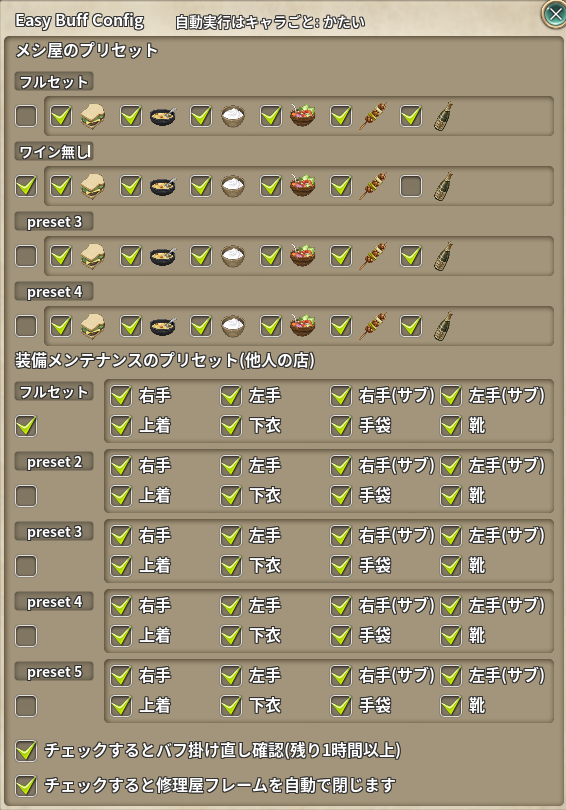
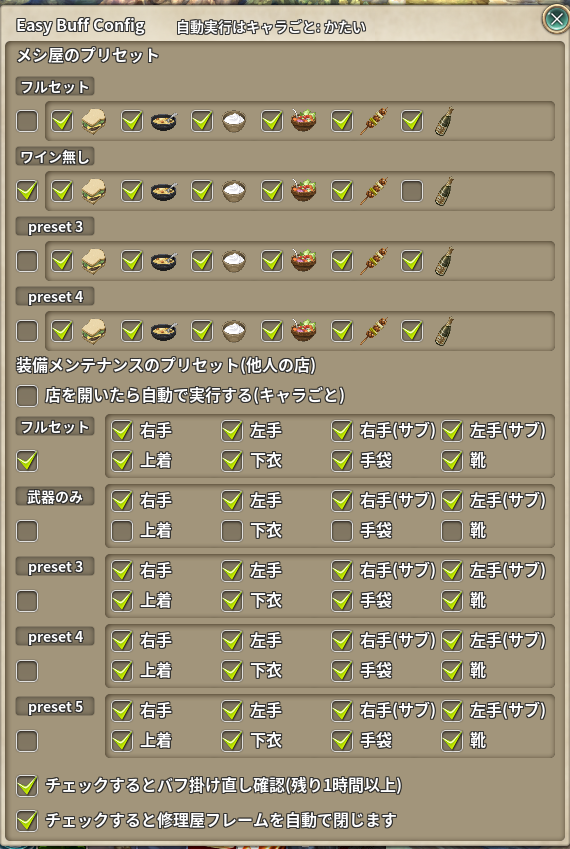
feat(easy_buff): 装備メンテナンスの窓にプリセットのボタンを並べ、店を開いたときの自動実行を切り替えられるようにする
* 他人の装備メンテナンスの窓で、装備の一覧をボタン 1 段分（36px）下げ、空いた所に
  5 つのプリセットボタンを並べる（メシ屋と同じく、設定で左端にチェックしたものが赤）。
  押すとそのプリセットの部位を選んで実行する。実行中に押し直しても二重には頼まない。
  自分の店ではボタンを隠し、一覧を元の位置へ戻す（窓は使い回されるため）。
* 設定に「店を開いたら自動で実行する(キャラごと)」を足す（char_maint_auto。既定 ON = 従来どおり）。
* test_easy_buff.lua に、自動実行 OFF / 自分の店 / 一覧を 1 回だけ下げることの検査を足す。
* 設定画面のスクリーンショットを撮り直し、店のボタンの画像を足す。

diff --git a/nexus_addons_p/src/addons/easy_buff/README.md b/nexus_addons_p/src/addons/easy_buff/README.md
@@ -57,16 +57,25 @@
 
 ## 装備メンテナンス（他人のスクワイア）
 
-**他人**の装備メンテナンスウィンドウが開いたときだけ、
+**他人**の装備メンテナンスウィンドウが開いたときだけ、窓の上（装備の一覧の上）に
+**5 つのプリセットボタン**が並びます。選択中（設定で左端にチェックしたもの）のプリセットは赤いボタンです。
+ボタンを押すと、そのプリセットの部位を選んで下の 2〜4 を行います。
+
+![他人の「装備メンテ」の窓の上部。タイトルの下、装備の一覧の上に、フルセット・武器のみ・preset 3・preset 4・preset 5 の 5 つのボタンが横一列に並び、選択中のフルセットだけが赤い](images/03-maint-buttons.png)
+
+設定の「店を開いたら自動で実行する」が ON（既定）なら、店を開いた時点で次を自動で行います。
 
 1. 設定で自動実行に選んだプリセット（**キャラごと**。既定は preset 1 = すべて）の部位にチェックを入れる
 2. 実行ボタンを押す
 3. `装備メンテナンス自動付与中 フレームを閉じればキャンセルします` と表示
 4. 5.5 秒後にウィンドウを閉じる
 
-を自動で行います。自分のスクワイアでは何もしません。
+自分のスクワイアではボタンを出さず、何もしません。
 
-* 設定で自動実行のプリセットを**全部外したキャラ**（または選んだプリセットの部位が全部外れている）では、何も選ばず実行もしません。
+* 「店を開いたら自動で実行する」を外したキャラ、自動実行のプリセットを**全部外したキャラ**
+  （または選んだプリセットの部位が全部外れている）では、店を開いても何も選ばず実行もしません。ボタンは使えます。
+* 部位が 1 つも選ばれていないプリセットのボタンを押すと、`Easy Buff: このプリセットは部位が 1 つも選ばれていません` と表示します。
+* 実行中（窓が閉じるまでの 5.5 秒）にボタンをもう一度押しても、二重には実行しません。
 * 選んだ部位がその店で 1 つもメンテナンスできない（武器のメンテナンスの店で防具だけを選んでいる等）ときは、
   `Easy Buff: 装備メンテナンスで選ぶ部位がこの店にありません` と表示して実行しません。
 途中でウィンドウを閉じると `packet.StopTimeAction` でキャンセルされます。
@@ -75,7 +84,7 @@
 
 アドオン一覧（メニューボタン → アドオン一覧）の歯車ボタンから開きます。
 
-![Easy Buff Config の画面。タイトルの右に「自動実行はキャラごと: かたい」と今のキャラ名が出ている。上半分の「メシ屋のプリセット」には 4 つのプリセット（フルセット・ワイン無し・preset 3・preset 4）が並び、各プリセットの左端に自動実行の選択チェック（この例ではワイン無しだけ ON）、右に料理 6 種類のチェックが横並びで付く（ワイン無しはシャンパンだけ OFF）。その下の「装備メンテナンスのプリセット(他人の店)」には 5 つのプリセット（フルセット・preset 2〜5）が並び、左端に自動実行の選択チェック（この例ではフルセットだけ ON）、右に右手・左手・右手(サブ)・左手(サブ)・上着・下衣・手袋・靴の 8 個のチェックが 4 列 2 段で付く。最下部にバフ掛け直し確認と修理屋フレームの自動クローズのチェック](images/02-settings.png)
+![Easy Buff Config の画面。タイトルの右に「自動実行はキャラごと: かたい」と今のキャラ名が出ている。上半分の「メシ屋のプリセット」には 4 つのプリセット（フルセット・ワイン無し・preset 3・preset 4）が並び、各プリセットの左端に自動実行の選択チェック（この例ではワイン無しだけ ON）、右に料理 6 種類のチェックが横並びで付く（ワイン無しはシャンパンだけ OFF）。その下の「装備メンテナンスのプリセット(他人の店)」には、まず「店を開いたら自動で実行する(キャラごと)」のチェック（この例では OFF）があり、続いて 5 つのプリセット（フルセット・武器のみ・preset 3〜5）が並ぶ。左端に自動実行の選択チェック（この例ではフルセットだけ ON）、右に右手・左手・右手(サブ)・左手(サブ)・上着・下衣・手袋・靴の 8 個のチェックが 4 列 2 段で付く（武器のみは上着・下衣・手袋・靴が OFF）。最下部にバフ掛け直し確認と修理屋フレームの自動クローズのチェック](images/02-settings.png)
 
 | 項目 | 既定値 | 説明 |
 | --- | --- | --- |
@@ -84,8 +93,9 @@
 | 料理チェック（プリセットごとに 6 個） | すべて ON | そのプリセットで食べる料理 |
 | バフ掛け直し確認（残り1時間以上） | OFF | ON にすると確認ダイアログを出す |
 | 修理屋フレームを自動で閉じます | OFF | ON にすると修理後にウィンドウを閉じる |
-| 装備メンテナンスのプリセット名（5 つ） | `preset 1`〜`5` | **Enter キーで確定** |
-| 装備メンテナンスのプリセットの選択チェック | プリセット 1 | 他人の装備メンテナンスで自動実行するプリセット。全部外すと自動実行しない。**キャラごとに覚える** |
+| 店を開いたら自動で実行する | ON | 外すと他人の装備メンテナンスを開いても自動では何もしない（店のボタンは使える）。**キャラごとに覚える** |
+| 装備メンテナンスのプリセット名（5 つ） | `preset 1`〜`5` | **Enter キーで確定**。店のボタンの文字にもなる |
+| 装備メンテナンスのプリセットの選択チェック | プリセット 1 | 他人の装備メンテナンスで自動実行するプリセット（店では赤いボタン）。全部外すと自動実行しない。**キャラごとに覚える** |
 | 部位チェック（プリセットごとに 8 個） | すべて ON | そのプリセットで選ぶ部位（右手・左手・右手(サブ)・左手(サブ)・上着・下衣・手袋・靴） |
 
 ## 保存先
@@ -102,7 +112,8 @@
   "repair_check": 0,
   "maint_presets_name":  { "1": "preset 1", ... },
   "maint_presets_check": { "1": { "RH": 1, "LH": 1, "SHIRT": 0, ... }, ... },
-  "char_maint_preset": { "<キャラの CID>": 2, ... }
+  "char_maint_preset": { "<キャラの CID>": 2, ... },
+  "char_maint_auto": { "<キャラの CID>": 0, ... }
 }
 ```
 
@@ -110,7 +121,8 @@
 まだ設定画面で選んでいないキャラは `food_check`（キャラごとの選択を入れる前の設定）に従います。
 
 `char_maint_preset` がキャラごとの装備メンテナンスの自動実行プリセットで、`0` は「自動実行なし」、
-無いキャラは `1` です。部位のキーは `RH` / `LH` / `RH_SUB` / `LH_SUB` / `SHIRT` / `PANTS` / `GLOVES` / `BOOTS`。
+無いキャラは `1` です。`char_maint_auto` はキャラごとの「店を開いたら自動で実行する」で、無いキャラは `1`（ON）です。
+部位のキーは `RH` / `LH` / `RH_SUB` / `LH_SUB` / `SHIRT` / `PANTS` / `GLOVES` / `BOOTS`。
 
 2.13.0〜2.15.0 の `char_maint_check`（キャラごとの部位）は、最初の読み込みでプリセットへ移して消します。
 すべて選択のキャラは `1`、全部外したキャラは `0`、それ以外は同じ部位のプリセットを `2`〜`5` に作って割り当てます

diff --git a/nexus_addons_p/README.md b/nexus_addons_p/README.md
@@ -287,6 +287,11 @@ Nexus Addons P は本家をリネームした派生版のため、**両方を同
 * **v2.19.0**
   * Party Keeper を追加しました。今入っている PT を保存しておき、後から**同じ PT へ入り直せます**
     （PT が残っていて、リンク参加が許可されている場合だけ）。
+  * Easy Buff: 他人の装備メンテナンスの窓の上に、**メシ屋と同じくプリセットのボタン**を並べました。
+    押すと、そのプリセットの部位を選んで実行します（赤いボタンは、設定で左端にチェックしたプリセットです）。
+    ボタンの分だけ、装備の一覧が少し下がります。
+  * Easy Buff: 設定に「**店を開いたら自動で実行する(キャラごと)**」を足しました（**既定は ON** で、これまでと同じ動きです）。
+    外すと、店を開いても何もせず、ボタンを押したときだけ実行します。
 
 * **v2.18.0**
   * Lets Go Home: ホームに着いた後に**倉庫番の前まで移動**できるようにしました。
